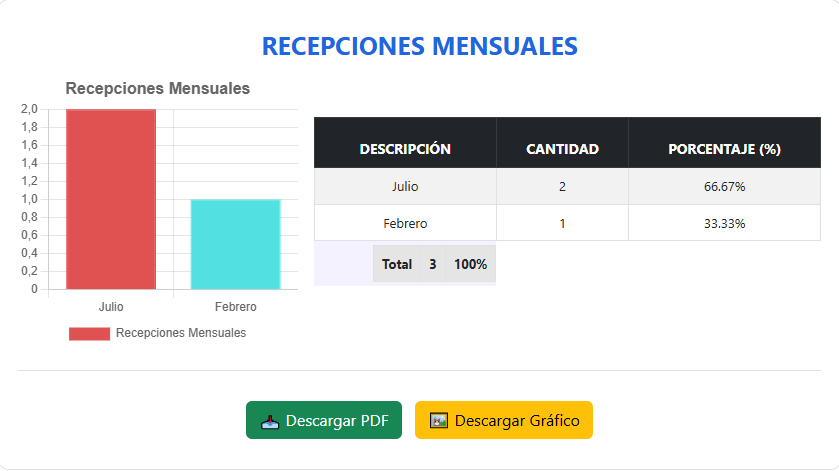
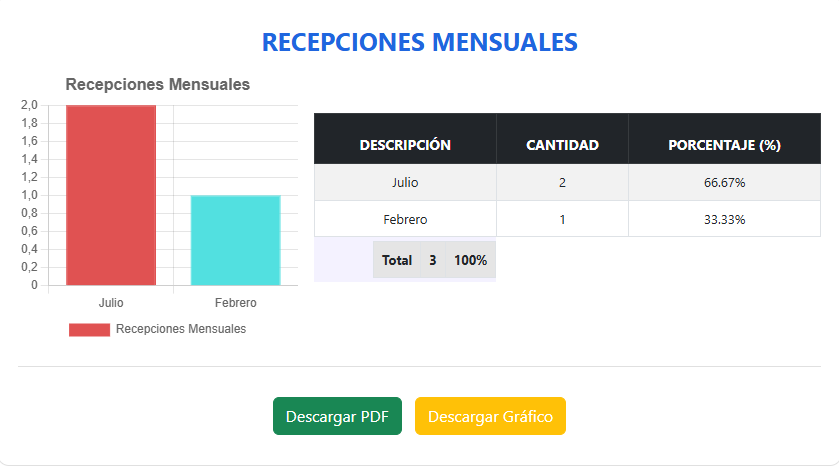
...

diff --git a/Vista/reporteInventario.php b/Vista/reporteInventario.php
@@ -80,10 +80,10 @@
         </div>
         <div class="download-buttons">
             <button class="btn btn-success btn-download" onclick="descargarPDFRecepcion('reporteProveedores','Reporte_Recepciones_Proveedores.pdf')">
-                📥 Descargar PDF
+                Descargar PDF
             </button>
-            <button class="btn btn-warning btn-download" onclick="descargarImagenRecepcion('graficoProveedores','Grafico_Recepciones_Proveedores.png')">
-                🖼 Descargar Gráfico
+            <button class="btn btn-warning btn-download" style="color: white;" onclick="descargarImagenRecepcion('graficoProveedores','Grafico_Recepciones_Proveedores.png')">
+                Descargar Gráfico
             </button>
         </div>
     </div>
@@ -103,10 +103,10 @@
         </div>
         <div class="download-buttons">
             <button class="btn btn-success btn-download" onclick="descargarPDFRecepcion('reporteProductos','Reporte_Recepciones_Productos.pdf')">
-                📥 Descargar PDF
+                Descargar PDF
             </button>
-            <button class="btn btn-warning btn-download" onclick="descargarImagenRecepcion('graficoProductos','Grafico_Recepciones_Productos.png')">
-                🖼 Descargar Gráfico
+            <button class="btn btn-warning btn-download" style="color: white;" onclick="descargarImagenRecepcion('graficoProductos','Grafico_Recepciones_Productos.png')">
+                Descargar Gráfico
             </button>
         </div>
     </div>
@@ -126,10 +126,10 @@
         </div>
         <div class="download-buttons">
             <button class="btn btn-success btn-download" onclick="descargarPDFRecepcion('reporteMensualRecepcion','Reporte_Recepciones_Mensual.pdf')">
-                📥 Descargar PDF
+                Descargar PDF
             </button>
-            <button class="btn btn-warning btn-download" onclick="descargarImagenRecepcion('graficoMensualRecepcion','Grafico_Recepciones_Mensual.png')">
-                🖼 Descargar Gráfico
+            <button class="btn btn-warning btn-download" style="color: white;" onclick="descargarImagenRecepcion('graficoMensualRecepcion','Grafico_Recepciones_Mensual.png')">
+                Descargar Gráfico
             </button>
         </div>
     </div>

diff --git a/assets/public/casalai-manual/index-new.php b/assets/public/casalai-manual/index-new.php
@@ -3200,8 +3200,7 @@ $modulos = [
                                             <li>Fecha de vigencia</li>
                                             <li>Estatus</li>
                                         </ul>
-                                    </div>
-                                    <div class="col-md-6">
+                                        <br>
                                         <h6>Operaciones disponibles:</h6>
                                         <ul>
                                             <li><strong>Registrar</strong>: Nuevo combo</li>
@@ -3210,11 +3209,11 @@ $modulos = [
                                             <li><strong>Estatus</strong>: Actualizar estatus (habilitado/inhabilitado)</li>
                                         </ul>
                                     </div>
-                                </div>
-                                                                <div class="row">
-                                    <div>
-                                        <h6 class="text-success">Vista de Combos</h6>
-                                        <?= renderImagen('combos', 'vista.png') ?>
+                                    <div class="col-md-6">
+                                        <div>
+                                            <h6 class="text-success">Combo Promocional</h6>
+                                            <?= renderImagen('combos', 'vista.png') ?>
+                                        </div>
                                     </div>
                                 </div>
                                 

diff --git a/Vista/Recepcion.php b/Vista/Recepcion.php
@@ -88,7 +88,7 @@ if (isset($permisosUsuarioEntrar[$idRol][$idModulo]['consultar']) && $permisosUs
                     <div class="envolver-form">
                         <input class="" type="text" id="codigoproducto" name="codigoproducto" style="display:none"/>
                         <input class="" type="text" id="idproducto" name="idproducto" style="display:none"/>
-                        <button type="button" class="btn-listado" id="listado" name="listado">Lista de Productos</button>
+                        <button type="button" class="btn-listado btn-primary" id="listado" name="listado">Lista de Productos</button>
                     </div>
                 
                     <div class="row">
@@ -118,8 +118,8 @@ if (isset($permisosUsuarioEntrar[$idRol][$idModulo]['consultar']) && $permisosUs
                     </div>
                 </div>
                 <div class="modal-footer">
-                    <button class="boton-form" type="submit">Registrar</button>
-                    <button class="boton-reset" type="reset">Limpiar</button>
+                    <button class="boton-form btn-primary" type="submit">Registrar</button>
+                    <button class="boton-reset btn-primary" type="reset">Limpiar</button>
                 </div>
             </form>
 

diff --git a/Vista/marca.php b/Vista/marca.php
@@ -36,8 +36,8 @@ aria-labelledby="registrarMarcaModalLabel" aria-hidden="true">
                     </div>
                 </div>
                 <div class="modal-footer">
-                    <button class="boton-form" type="submit">Registrar</button>
-                    <button class="boton-reset" type="reset">Limpiar</button>
+                    <button class="boton-form btn-primary" type="submit">Registrar</button>
+                    <button class="boton-reset btn-primary" type="reset">Limpiar</button>
                 </div>
             </form>
         </div>
